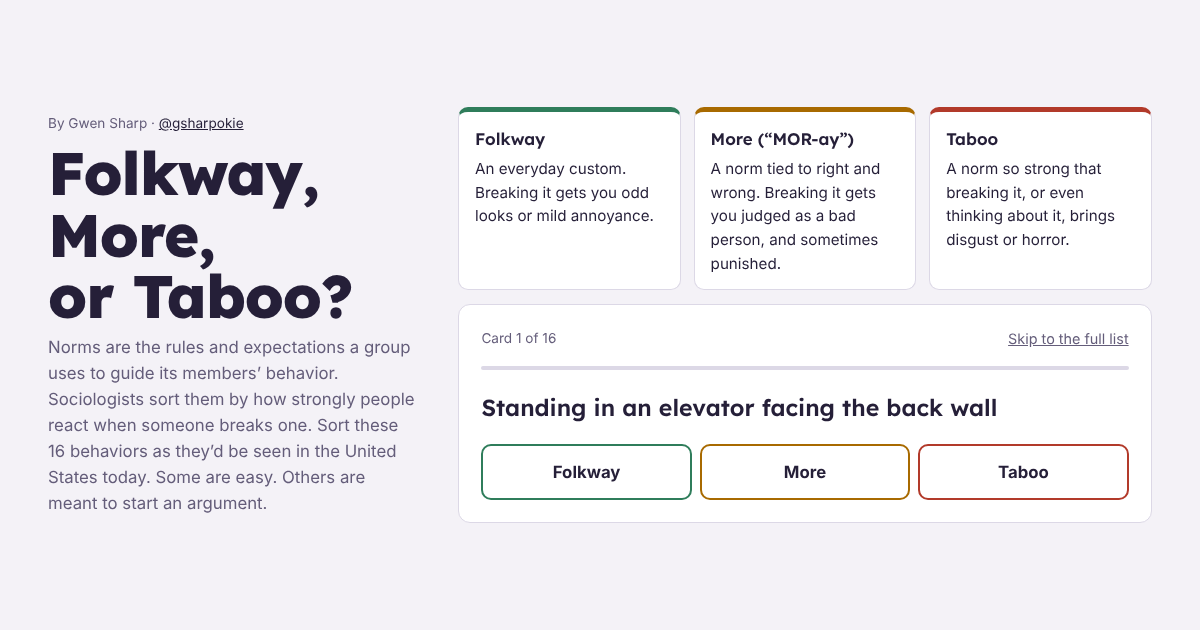
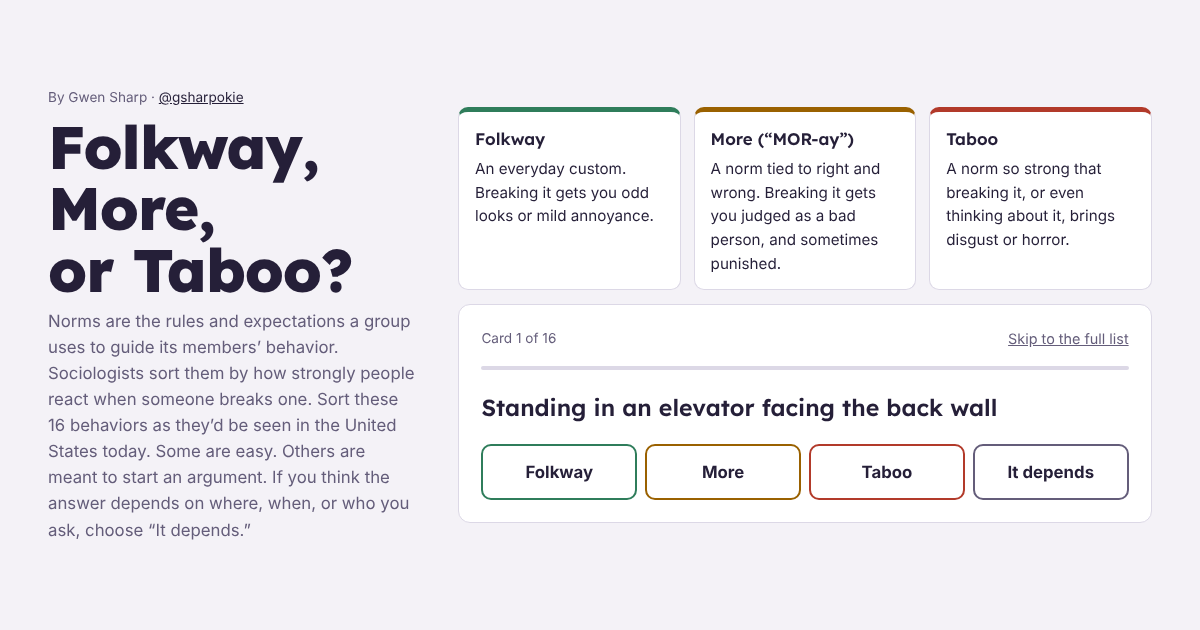
Add an It depends option
A fourth button for cards whose answer changes with place, time, or who you ask. Judgment-call cards get 'Fair' with the usual U.S. answer; clear-cut cards get 'Are you sure?' The summary adds an It depends column, and a new discussion question asks what the answer depends on.

Claude-Session: https://claude.ai/code/session_01U3Suqs7pQFCdeiVfbbM3Zz

diff --git a/index.html b/index.html
@@ -12,7 +12,7 @@
 <meta property="og:image" content="https://gsharpokie.github.io/normsort/preview.png">
 <meta property="og:image:width" content="1200">
 <meta property="og:image:height" content="630">
-<meta property="og:image:alt" content="Folkway, More, or Taboo? A card reading “Cutting into the middle of a long line” with three choices.">
+<meta property="og:image:alt" content="Folkway, More, or Taboo? A card reading “Cutting into the middle of a long line” with four choices.">
 <meta name="twitter:card" content="summary_large_image">
 <meta name="twitter:creator" content="@gsharpokie">
 <meta name="twitter:title" content="Folkway, More, or Taboo?">
@@ -23,7 +23,7 @@
 <link rel="preconnect" href="https://fonts.gstatic.com" crossorigin>
 <link href="https://fonts.googleapis.com/css2?family=Lexend:wght@600;800&display=swap" rel="stylesheet">
 <style>
-/* Layout: one column. Three definitions up top, then one behavior card at a time with three sort buttons.
+/* Layout: one column. Three definitions up top, then one behavior card at a time with four buttons (three categories plus “It depends”).
    Each card is tagged clear-cut, borderline, depends on place, or changed over time. A sorted summary ends it. */
 :root {
   --paper: #f4f2f7; --surface: #ffffff; --ink: #251f38; --muted: #645d7a; --line: #dcd8e6;
@@ -61,7 +61,8 @@ h3 { font-family: var(--display); font-weight: 600; font-size: 1.05rem; margin: 
 .progress { height: 4px; background: var(--line); border-radius: 2px; overflow: hidden; }
 .progress span { display: block; height: 100%; background: var(--ink); }
 .behavior { font-family: var(--display); font-weight: 600; font-size: 1.45rem; line-height: 1.25; margin: .4rem 0; text-wrap: balance; }
-.sort { display: grid; grid-template-columns: repeat(3, 1fr); gap: .5rem; }
+.sort { display: grid; grid-template-columns: repeat(4, 1fr); gap: .5rem; }
+@media (max-width: 560px) { .sort { grid-template-columns: repeat(2, 1fr); } }
 .sort button { font: inherit; font-weight: 700; padding: .8rem .4rem; border-radius: 10px; border: 2px solid; background: transparent; color: var(--ink); cursor: pointer; }
 .sort button[aria-pressed="true"] { color: var(--surface); }
 .sort button:disabled { cursor: default; opacity: .75; }
@@ -92,7 +93,7 @@ footer { font-size: .85rem; color: var(--muted); }
   <header>
     <div class="kicker">By Gwen Sharp · <a href="https://x.com/gsharpokie">@gsharpokie</a></div>
     <h1>Folkway, More, or Taboo?</h1>
-    <p class="lede">Norms are the rules and expectations a group uses to guide its members’ behavior. Sociologists sort them by how strongly people react when someone breaks one. Sort these 16 behaviors as they’d be seen in the United States today. Some are easy. Others are meant to start an argument.</p>
+    <p class="lede">Norms are the rules and expectations a group uses to guide its members’ behavior. Sociologists sort them by how strongly people react when someone breaks one. Sort these 16 behaviors as they’d be seen in the United States today. Some are easy. Others are meant to start an argument. If you think the answer depends on where, when, or who you ask, choose “It depends.”</p>
   </header>
   <main class="wrap-main">
 
@@ -110,6 +111,7 @@ footer { font-size: .85rem; color: var(--muted); }
       <button data-v="folk" style="border-color:var(--folk)">Folkway</button>
       <button data-v="more" style="border-color:var(--more)">More</button>
       <button data-v="taboo" style="border-color:var(--taboo)">Taboo</button>
+      <button data-v="dep" style="border-color:var(--muted)">It depends</button>
     </div>
     <div id="reveal" class="hidden" style="display:grid;gap:.6rem">
       <p class="verdict" id="verdict"></p>
@@ -134,6 +136,7 @@ footer { font-size: .85rem; color: var(--muted); }
     <p><strong>Taboos work through disgust.</strong> Psychologists find that people often can’t explain why a taboo act is wrong, even when they’re certain it is. Anthropologists point out that what a group finds disgusting tends to mark the boundaries it cares most about: family, the body, food, and the dead. The word itself comes from the Pacific. In Tongan, <em>tapu</em> (also written <em>tabu</em>) means sacred or forbidden: set apart from ordinary use, often for the gods or for chiefs. British explorer James Cook brought it into English after visiting Tonga in 1777, when his Tongan guests refused to eat at his table because the food was <em>tapu</em>. Related words are used across the Pacific, such as <em>tapu</em> in Māori and <em>kapu</em> in Hawaiian.</p>
     <h3>Talk about it</h3>
     <ol>
+      <li>Which cards did you mark “It depends”? Depends on what: where you are, when, or who you ask? Did your classmates pick “It depends” for the same cards?</li>
       <li>Which cards did your group disagree on? What does the disagreement tell you about the people in the room (age, region, religion, family)?</li>
       <li>Pick one “changed over time” card. Who pushed for the change, and who resisted?</li>
       <li>Think of a folkway you’ve broken on purpose or by accident. How did people let you know? Those reactions are called sanctions.</li>
@@ -191,8 +194,8 @@ const CARDS = [
   { t: "Eating dog meat", ok: ["taboo"], kind: "place",
     note: "In the U.S., dogs are family members, and eating one is a taboo. In some countries it has been a traditional food, though that’s changing: South Korea passed a ban in 2024." }
 ];
-const NAME = { folk: "Folkway", more: "More", taboo: "Taboo" };
-const COLOR = { folk: "var(--folk)", more: "var(--more)", taboo: "var(--taboo)" };
+const NAME = { folk: "Folkway", more: "More", taboo: "Taboo", dep: "It depends" };
+const COLOR = { folk: "var(--folk)", more: "var(--more)", taboo: "var(--taboo)", dep: "var(--ink)" };
 const KIND = { clear: "Clear-cut", border: "Borderline", place: "Depends on place", time: "Changed over time" };
 const $ = id => document.getElementById(id);
 const picks = new Array(CARDS.length).fill(null);
@@ -214,8 +217,16 @@ function pick(v, btn) {
   document.querySelectorAll("#sort button").forEach(b => { b.disabled = true; });
   btn.setAttribute("aria-pressed", "true"); btn.style.background = COLOR[v];
   const match = c.ok.includes(v);
+  // "It depends" gets its own feedback: fair on judgment-call cards, questioned on clear-cut ones.
+  const DEP = {
+    place: `<strong>Fair: it does depend on place.</strong> For the U.S. today, the usual answer is ${usual(c)}.`,
+    time: `<strong>Fair: it depends on when you ask.</strong> For the U.S. today, the usual answer is ${usual(c)}.`,
+    border: `<strong>Fair: it depends on the situation and who you ask.</strong> Most people would say ${usual(c)}.`,
+    clear: `<strong>Are you sure?</strong> Hardly anyone in the U.S. would disagree on this one. The usual answer is ${usual(c)}.`
+  };
   $("verdict").innerHTML = `<span class="tag">${KIND[c.kind]}</span> ` +
-    (c.kind === "clear" ? (match ? `<strong>Yes.</strong> The usual answer is ${usual(c)}.` : `<strong>Most people would say ${usual(c)}.</strong>`)
+    (v === "dep" ? (c.ok.length === 3 ? `<strong>Good answer.</strong> This card is the clearest case of “it depends.” It can be any of the three.` : DEP[c.kind])
+    : c.kind === "clear" ? (match ? `<strong>Yes.</strong> The usual answer is ${usual(c)}.` : `<strong>Most people would say ${usual(c)}.</strong>`)
       : c.ok.length === 3 ? `<strong>There’s no single answer.</strong>`
       : match && c.ok.length === 1 ? `<strong>That’s the usual answer in the U.S.</strong> But not everywhere:`
       : match ? `<strong>That’s a defensible answer.</strong> So is ${c.ok.filter(k => k !== v).map(k => NAME[k].toLowerCase()).join(" or ")}.`
@@ -234,10 +245,10 @@ function finish() {
   $("sumLede").textContent = played
     ? `You matched the usual answer on ${hit} of the ${clear.length} clear-cut cards you sorted. The other ${CARDS.length - CARDS.filter(c => c.kind === "clear").length} cards are judgment calls; compare yours with a classmate’s.`
     : "Each card is listed under its usual answer. Cards with more than one defensible answer appear under the first.";
-  $("cols").innerHTML = ["folk", "more", "taboo"].map(k => {
+  $("cols").innerHTML = (played ? ["folk", "more", "taboo", "dep"] : ["folk", "more", "taboo"]).map(k => {
     const items = CARDS.map((c, i) => [c, picks[i]]).filter(([c, p]) => (played ? p : c.ok[0]) === k);
     return `<div><h3 style="color:${COLOR[k]}">${NAME[k]}</h3><ul>` + (items.map(([c, p]) =>
-      `<li>${c.t}<br><span class="diff">${KIND[c.kind]}${played && !c.ok.includes(p) ? ` · usual answer: ${usual(c)}` : c.ok.length > 1 ? ` · also defensible: ${c.ok.filter(o => o !== k).map(o => NAME[o].toLowerCase()).join(", ")}` : ""}</span></li>`).join("") || `<li class="diff">None</li>`) + `</ul></div>`;
+      `<li>${c.t}<br><span class="diff">${KIND[c.kind]}${played && k === "dep" ? ` · usual U.S. answer: ${usual(c)}` : played && !c.ok.includes(p) ? ` · usual answer: ${usual(c)}` : c.ok.length > 1 ? ` · also defensible: ${c.ok.filter(o => o !== k).map(o => NAME[o].toLowerCase()).join(", ")}` : ""}</span></li>`).join("") || `<li class="diff">None</li>`) + `</ul></div>`;
   }).join("");
   document.querySelector(".after").scrollIntoView({ block: "start" });
 }

diff --git a/README.md b/README.md
@@ -1,6 +1,6 @@
 # Folkway, More, or Taboo?
 
-An interactive card sort about norms. Students sort 16 behaviors as folkways, mores, or taboos, get a short explanation after each, and end with their full sort to compare with classmates. Some cards are clear-cut; others are borderline, depend on the culture, or have changed over time. By Gwen Sharp.
+An interactive card sort about norms. Students sort 16 behaviors as folkways, mores, or taboos (or say “It depends”), get a short explanation after each, and end with their full sort to compare with classmates. Some cards are clear-cut; others are borderline, depend on the culture, or have changed over time. By Gwen Sharp.
 
 **Live site:** https://gsharpokie.github.io/normsort/
 
@@ -8,7 +8,8 @@ An interactive card sort about norms. Students sort 16 behaviors as folkways, mo
 
 - **Three definitions** stay at the top of the page.
 - **One card at a time.** After each choice, the page shows a label (Clear-cut, Borderline, Depends on place, or Changed over time), the usual answer, and a sentence or two of explanation. Borderline cards accept more than one answer.
-- **Your sort:** every card under the category the student chose, with the usual answer noted where it differs.
+- **“It depends” button:** for cards where the answer changes with place, time, or who you ask. On judgment-call cards it gets “Fair,” with the usual U.S. answer; on clear-cut cards it gets “Are you sure?”
+- **Your sort:** every card under the category the student chose (including an “It depends” column), with the usual answer noted where it differs.
 - **What the hard ones show,** plus discussion questions (including one that asks students to write their own card).
 
 Nothing a student selects is saved or sent anywhere.
